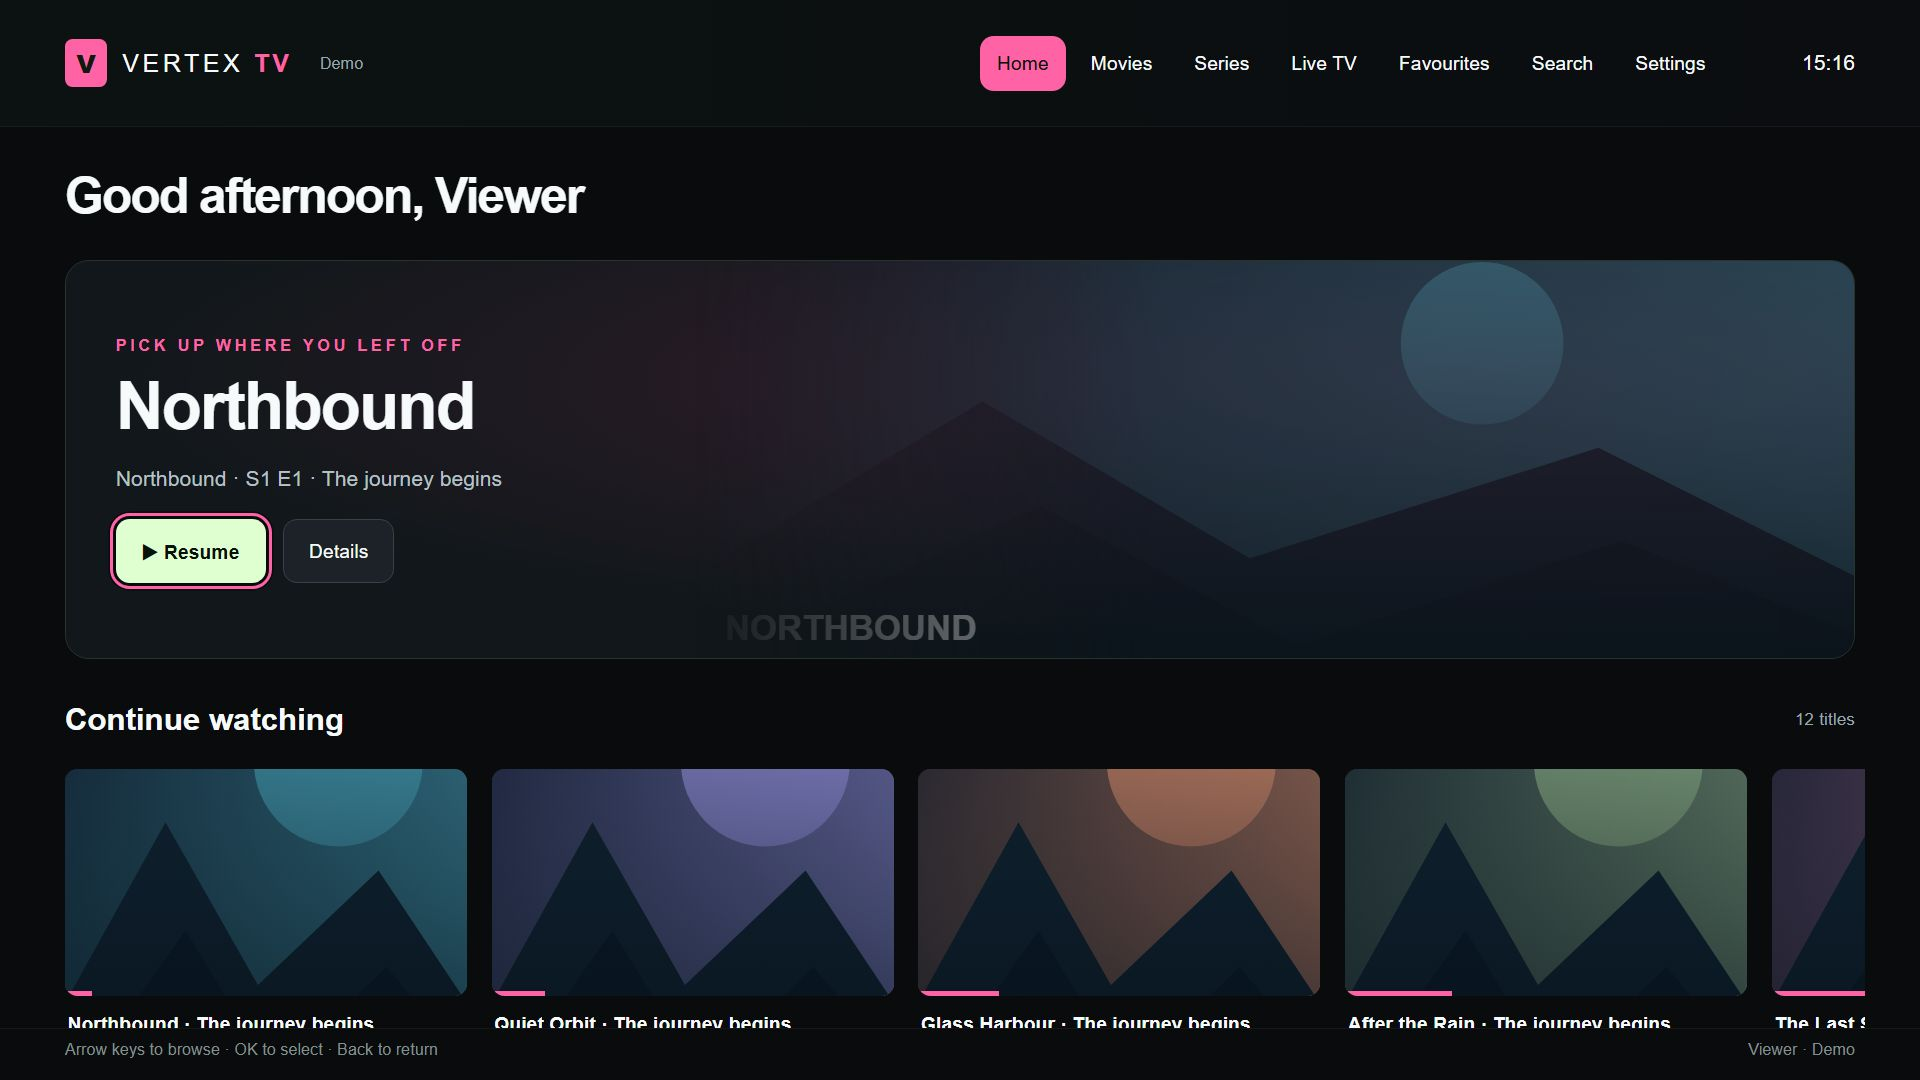
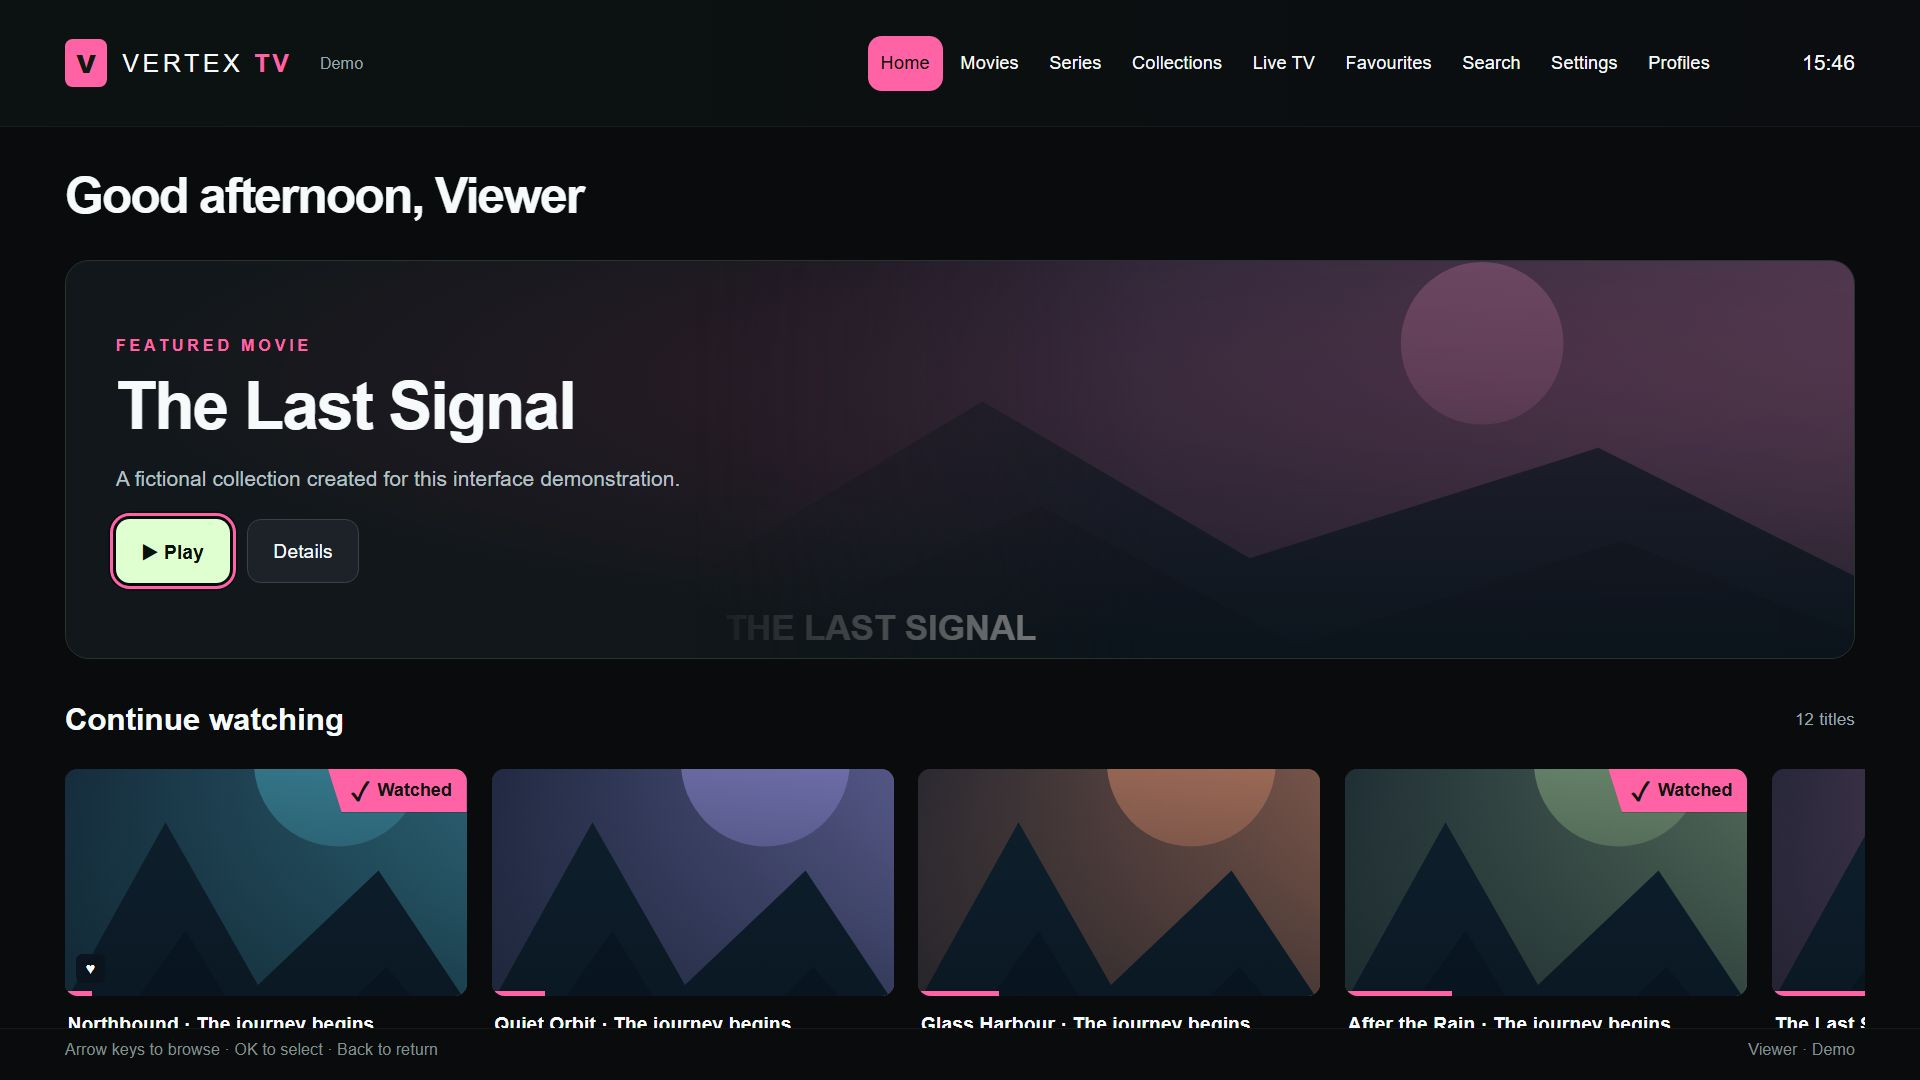
Document featured movies, collections, profiles and remote settings

diff --git a/projects/tv-apps/vertex-tv.md b/projects/tv-apps/vertex-tv.md
@@ -4,7 +4,7 @@
 
 Project by [Kyle Cowens](https://vertexhomelab.co.uk/kyle-cowens/), developed with AI-assisted coding and iterative testing on physical televisions.
 
-![Vertex TV home: greeting, resume banner and continue-watching rail](images/vertex-home.jpg)
+![Vertex TV home: greeting, featured movie and continue-watching rail](images/vertex-home.jpg)
 
 *Actual app interface in a browser preview. Titles, progress, artwork and account labels are fictional demonstration data.*
 
@@ -16,14 +16,16 @@ Vertex TV brings the interaction model and playback decisions into the client. I
 
 ## What was built
 
-- A home screen with resume, continue watching, next-up episodes and recent library additions.
-- Movie and series browsing, seasons, episodes, search, favourites and watched-state controls.
+- A random featured movie on Home, with separate continue-watching, next-up and recent-addition rows.
+- Movie and series browsing, collections, seasons, episodes, search, favourites and watched-state controls.
 - A series-level play button that selects an unfinished episode or the next unwatched episode.
 - Quick Connect as the initial sign-in focus, plus explicit username and password editors.
+- A Profiles tab for accounts already authenticated on the television, with session validation before switching and normal sign-in for additional accounts.
 - Live TV browsing and available programme information.
 - Playback controls, audio-track selection, text-subtitle overlays, resume reporting and a next-episode prompt.
 - A bounded 96 MB artwork and metadata cache with automatic eviction.
 - Green and pink accent themes, large controls and visible remote focus.
+- Prominent watched ribbons with a tick, and settings choices that open in remote-friendly dialogs.
 
 ![Movie library with fictional poster artwork](images/vertex-library.jpg)
 
@@ -54,6 +56,7 @@ Text subtitles are displayed separately from the video. This avoids deliberately
 | Observed issue | Change |
 |---|---|
 | The username keyboard trapped the initial navigation | Start on Quick Connect and open text fields in explicit editors with a return path |
+| Native settings dropdowns trapped arrow navigation | Use buttons with choice dialogs; Back closes the dialog and restores focus |
 | Opening a series required navigating through seasons before playing | Add a series-level play/resume action |
 | Fast upward navigation skipped grid rows | Resolve movement inside the grid before moving to the header |
 | Returning to the banner left content hidden, while the final row touched the footer | Scroll the content container explicitly, restore the top on hero focus, and reserve space around focused rows |
@@ -62,9 +65,9 @@ Text subtitles are displayed separately from the video. This avoids deliberately
 
 The client has been installed on two Samsung Tizen 8 televisions. User testing confirmed Quick Connect, library browsing, Live TV listing and fast Direct Play of selected episodes.
 
-The local core suite contains 16 passing tests covering playback policy, subtitle parsing, navigation, episode selection and scroll bounds. The latest padding and scroll changes were also checked at a 1920 × 1080 browser viewport: the final row clears the footer, and returning to the hero reveals the greeting.
+The local suite contains 22 passing tests covering playback policy, subtitle parsing, navigation, episode selection, scroll bounds and profile sessions. Profile tests cover migration, switching, server isolation, rejected sessions and sign-out. Browser checks at 1920 × 1080 confirm footer clearance, full hero return, settings navigation, collection browsing and profile cancellation.
 
-The latest layout changes are installed on both televisions, with a physical remote retest still pending. Audio conversion, unusual subtitle formats, cache pressure and broader codec coverage remain areas for further device testing. Universal codec support and an audio-sync fix are not claimed.
+The latest interface changes are installed on both televisions, with physical remote and additional-account retests still pending. Audio conversion, unusual subtitle formats, cache pressure and broader codec coverage remain areas for further device testing. Universal codec support and an audio-sync fix are not claimed.
 
 ## Publication scope
 
